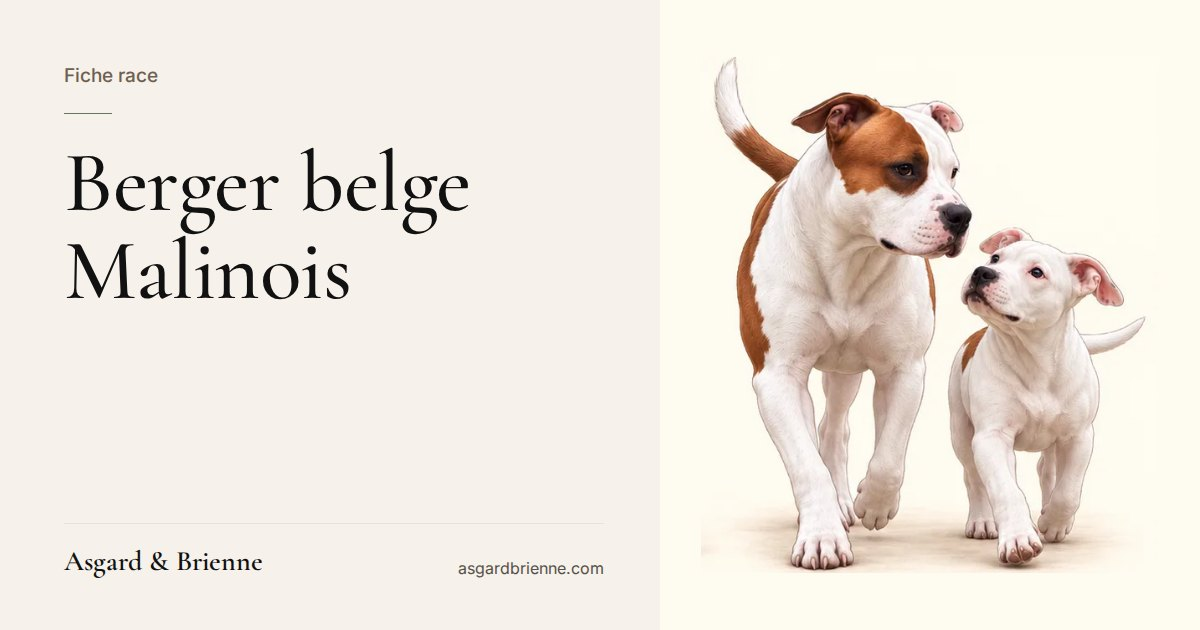
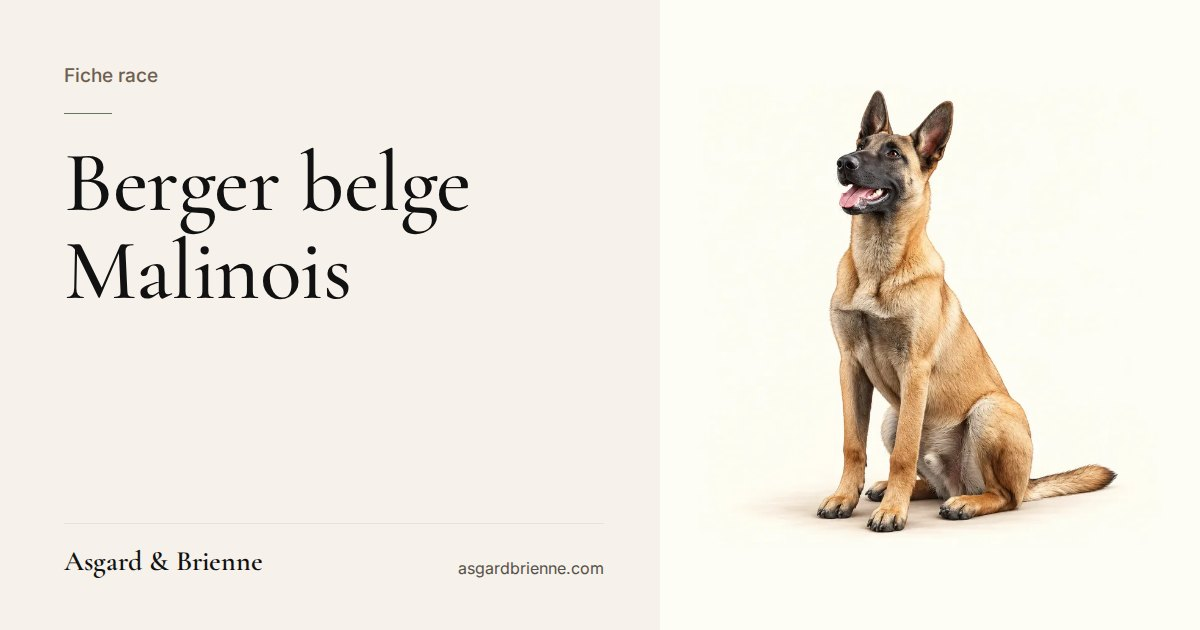
Races : illustrations Malinois, Staffie et Berger australien (#71)
Claude-Session: https://claude.ai/code/session_01Wc2QyaMHJEVbT5eyN7YCPF

Changed region(s): [[0.5858, 0.0905, 0.9558, 0.9349]]

diff --git a/races/index.html b/races/index.html
@@ -683,7 +683,7 @@ ol.cal li a{font-weight:700;font-size:.92rem}
 </section>
 <section class="rc-sec"><div class="container">
   <div class="fd-head"><p class="fd-k">Les fiches</p><h2>Race par race</h2><p>On commence par les races les plus vues sur Instagram et TikTok et les plus inscrites en France. D’autres arrivent, choisies d’après vos questions.</p></div>
-  <div class="rc-cards"><a class="rc-card" href="golden-retriever.html"><span class="rc-card-pic rc-ill"><img src="../assets/img/races/golden-retriever.webp" alt="" loading="lazy"></span><span class="rc-card-tx"><span class="rc-card-k">FCI 8, rapporteurs de gibier</span><h3>Golden retriever</h3><p>Star des réseaux, mais pas un « chien parfait » : besoins et vraie fragilité.</p><span class="more">Lire la fiche →</span></span></a><a class="rc-card" href="bouledogue-francais.html"><span class="rc-card-pic rc-ill"><img src="../assets/img/races/bouledogue-francais.webp" alt="" loading="lazy"></span><span class="rc-card-tx"><span class="rc-card-k">FCI 9, chiens de compagnie</span><h3>Bouledogue français</h3><p>Star d’Instagram, mais un nez court qui l’empêche souvent de bien respirer.</p><span class="more">Lire la fiche →</span></span></a><a class="rc-card" href="chihuahua.html"><span class="rc-card-pic rc-ill"><img src="../assets/img/races/chihuahua.webp" alt="" loading="lazy"></span><span class="rc-card-tx"><span class="rc-card-k">FCI 9, chiens de compagnie</span><h3>Chihuahua</h3><p>Tout petit, mais un vrai chien : pourquoi il aboie, et comment l’aider.</p><span class="more">Lire la fiche →</span></span></a><a class="rc-card" href="rottweiler.html"><span class="rc-card-pic rc-ill"><img src="../assets/img/races/rottweiler.webp" alt="" loading="lazy"></span><span class="rc-card-tx"><span class="rc-card-k">FCI 2, molossoïdes</span><h3>Rottweiler</h3><p>Chien de garde, catégorie 2, et l’un des plus vus sur TikTok.</p><span class="more">Lire la fiche →</span></span></a><a class="rc-card" href="husky.html"><span class="rc-card-pic rc-ill"><img src="../assets/img/races/husky.webp" alt="" loading="lazy"></span><span class="rc-card-tx"><span class="rc-card-k">FCI 5, chiens de type spitz</span><h3>Husky sibérien</h3><p>Les yeux bleus des réseaux, et un vrai chien de traîneau qui veut courir.</p><span class="more">Lire la fiche →</span></span></a><a class="rc-card" href="berger-australien.html"><span class="rc-card-pic rc-card-mono">BA</span><span class="rc-card-tx"><span class="rc-card-k">FCI 1, chiens de berger</span><h3>Berger australien</h3><p>Le chouchou des Français, et un chien de troupeau qui a besoin de travailler.</p><span class="more">Lire la fiche →</span></span></a><a class="rc-card" href="staffordshire-bull-terrier.html"><span class="rc-card-pic rc-card-mono">S</span><span class="rc-card-tx"><span class="rc-card-k">FCI 3, terriers (type bull)</span><h3>Staffordshire bull terrier</h3><p>3e race en France, souvent confondu avec l’Amstaff, mais pas catégorisé.</p><span class="more">Lire la fiche →</span></span></a><a class="rc-card" href="american-staffordshire-terrier.html"><span class="rc-card-pic"><img src="../assets/img/asgard-face.webp" alt="" loading="lazy"></span><span class="rc-card-tx"><span class="rc-card-k">FCI 3, terriers (type bull)</span><h3>American Staffordshire Terrier</h3><p>Ni « chien tueur » ni « nounou » : ce que la race dit vraiment, et la catégorie 2.</p><span class="more">Lire la fiche →</span></span></a><a class="rc-card" href="labrador.html"><span class="rc-card-pic rc-ill"><img src="../assets/img/races/labrador.webp" alt="" loading="lazy"></span><span class="rc-card-tx"><span class="rc-card-k">FCI 8, rapporteurs de gibier</span><h3>Labrador retriever</h3><p>Gourmand pour de vrai : une mutation génétique en partie responsable.</p><span class="more">Lire la fiche →</span></span></a><a class="rc-card" href="malinois.html"><span class="rc-card-pic rc-card-mono">M</span><span class="rc-card-tx"><span class="rc-card-k">FCI 1, chiens de berger</span><h3>Berger belge Malinois</h3><p>Un chien de travail avant tout : ses vrais besoins, et pour qui il est fait.</p><span class="more">Lire la fiche →</span></span></a><a class="rc-card" href="border-collie.html"><span class="rc-card-pic rc-ill"><img src="../assets/img/races/border-collie.webp" alt="" loading="lazy"></span><span class="rc-card-tx"><span class="rc-card-k">FCI 1, chiens de berger</span><h3>Border collie</h3><p>« Intelligent » ne veut pas dire « facile » : ce dont il a vraiment besoin.</p><span class="more">Lire la fiche →</span></span></a></div>
+  <div class="rc-cards"><a class="rc-card" href="golden-retriever.html"><span class="rc-card-pic rc-ill"><img src="../assets/img/races/golden-retriever.webp" alt="" loading="lazy"></span><span class="rc-card-tx"><span class="rc-card-k">FCI 8, rapporteurs de gibier</span><h3>Golden retriever</h3><p>Star des réseaux, mais pas un « chien parfait » : besoins et vraie fragilité.</p><span class="more">Lire la fiche →</span></span></a><a class="rc-card" href="bouledogue-francais.html"><span class="rc-card-pic rc-ill"><img src="../assets/img/races/bouledogue-francais.webp" alt="" loading="lazy"></span><span class="rc-card-tx"><span class="rc-card-k">FCI 9, chiens de compagnie</span><h3>Bouledogue français</h3><p>Star d’Instagram, mais un nez court qui l’empêche souvent de bien respirer.</p><span class="more">Lire la fiche →</span></span></a><a class="rc-card" href="chihuahua.html"><span class="rc-card-pic rc-ill"><img src="../assets/img/races/chihuahua.webp" alt="" loading="lazy"></span><span class="rc-card-tx"><span class="rc-card-k">FCI 9, chiens de compagnie</span><h3>Chihuahua</h3><p>Tout petit, mais un vrai chien : pourquoi il aboie, et comment l’aider.</p><span class="more">Lire la fiche →</span></span></a><a class="rc-card" href="rottweiler.html"><span class="rc-card-pic rc-ill"><img src="../assets/img/races/rottweiler.webp" alt="" loading="lazy"></span><span class="rc-card-tx"><span class="rc-card-k">FCI 2, molossoïdes</span><h3>Rottweiler</h3><p>Chien de garde, catégorie 2, et l’un des plus vus sur TikTok.</p><span class="more">Lire la fiche →</span></span></a><a class="rc-card" href="husky.html"><span class="rc-card-pic rc-ill"><img src="../assets/img/races/husky.webp" alt="" loading="lazy"></span><span class="rc-card-tx"><span class="rc-card-k">FCI 5, chiens de type spitz</span><h3>Husky sibérien</h3><p>Les yeux bleus des réseaux, et un vrai chien de traîneau qui veut courir.</p><span class="more">Lire la fiche →</span></span></a><a class="rc-card" href="berger-australien.html"><span class="rc-card-pic rc-ill"><img src="../assets/img/races/berger-australien.webp" alt="" loading="lazy"></span><span class="rc-card-tx"><span class="rc-card-k">FCI 1, chiens de berger</span><h3>Berger australien</h3><p>Le chouchou des Français, et un chien de troupeau qui a besoin de travailler.</p><span class="more">Lire la fiche →</span></span></a><a class="rc-card" href="staffordshire-bull-terrier.html"><span class="rc-card-pic rc-ill"><img src="../assets/img/races/staffordshire-bull-terrier.webp" alt="" loading="lazy"></span><span class="rc-card-tx"><span class="rc-card-k">FCI 3, terriers (type bull)</span><h3>Staffordshire bull terrier</h3><p>3e race en France, souvent confondu avec l’Amstaff, mais pas catégorisé.</p><span class="more">Lire la fiche →</span></span></a><a class="rc-card" href="american-staffordshire-terrier.html"><span class="rc-card-pic"><img src="../assets/img/asgard-face.webp" alt="" loading="lazy"></span><span class="rc-card-tx"><span class="rc-card-k">FCI 3, terriers (type bull)</span><h3>American Staffordshire Terrier</h3><p>Ni « chien tueur » ni « nounou » : ce que la race dit vraiment, et la catégorie 2.</p><span class="more">Lire la fiche →</span></span></a><a class="rc-card" href="labrador.html"><span class="rc-card-pic rc-ill"><img src="../assets/img/races/labrador.webp" alt="" loading="lazy"></span><span class="rc-card-tx"><span class="rc-card-k">FCI 8, rapporteurs de gibier</span><h3>Labrador retriever</h3><p>Gourmand pour de vrai : une mutation génétique en partie responsable.</p><span class="more">Lire la fiche →</span></span></a><a class="rc-card" href="malinois.html"><span class="rc-card-pic rc-ill"><img src="../assets/img/races/malinois.webp" alt="" loading="lazy"></span><span class="rc-card-tx"><span class="rc-card-k">FCI 1, chiens de berger</span><h3>Berger belge Malinois</h3><p>Un chien de travail avant tout : ses vrais besoins, et pour qui il est fait.</p><span class="more">Lire la fiche →</span></span></a><a class="rc-card" href="border-collie.html"><span class="rc-card-pic rc-ill"><img src="../assets/img/races/border-collie.webp" alt="" loading="lazy"></span><span class="rc-card-tx"><span class="rc-card-k">FCI 1, chiens de berger</span><h3>Border collie</h3><p>« Intelligent » ne veut pas dire « facile » : ce dont il a vraiment besoin.</p><span class="more">Lire la fiche →</span></span></a></div>
 </div></section>
 <section class="rc-sec rc-sec-sable"><div class="container">
   <div class="fd-head"><p class="fd-k">Les 10 groupes officiels</p><h2>Chaque race appartient à une famille</h2><p>La Fédération cynologique internationale range les races en dix groupes, surtout d’après leur fonction d’origine. C’est un bon point de départ pour comprendre les besoins probables d’un chien, même croisé.</p></div>

diff --git a/races/berger-australien.html b/races/berger-australien.html
@@ -678,7 +678,7 @@ ol.cal li a{font-weight:700;font-size:.92rem}
       <h1>Berger australien</h1>
       <p class="dc-lead">C’était la race préférée des Français depuis des années, et elle reste dans le trio de tête. Avec ses yeux clairs et sa robe merle, il est très photogénique. C’est un chien de troupeau, sensible et actif, qui s’ennuie vite sans occupation.</p>
     </div>
-    <div class="rc-side"><div class="rc-mono" aria-hidden="true">BA</div><dl class="rc-facts"><div class="rc-fact"><dt>Groupe</dt><dd>FCI 1, chiens de berger</dd></div><div class="rc-fact"><dt>Origine</dt><dd>États-Unis</dd></div><div class="rc-fact"><dt>Taille au garrot</dt><dd>mâle 51 à 58 cm, femelle 46 à 53 cm</dd></div><div class="rc-fact"><dt>En France</dt><dd>2e race inscrite au LOF en 2025</dd></div></dl></div>
+    <div class="rc-side"><figure class="rc-pic rc-ill"><img src="../assets/img/races/berger-australien.webp" alt="Illustration : berger australien rouge tricolore de profil" width="760" height="760"></figure><dl class="rc-facts"><div class="rc-fact"><dt>Groupe</dt><dd>FCI 1, chiens de berger</dd></div><div class="rc-fact"><dt>Origine</dt><dd>États-Unis</dd></div><div class="rc-fact"><dt>Taille au garrot</dt><dd>mâle 51 à 58 cm, femelle 46 à 53 cm</dd></div><div class="rc-fact"><dt>En France</dt><dd>2e race inscrite au LOF en 2025</dd></div></dl></div>
   </div>
 </section>
 <div class="narrow dc-body rc-body">

diff --git a/races/malinois.html b/races/malinois.html
@@ -678,7 +678,7 @@ ol.cal li a{font-weight:700;font-size:.92rem}
       <h1>Berger belge Malinois</h1>
       <p class="dc-lead">Il est devenu à la mode grâce aux chiens de police et aux vidéos impressionnantes. C’est surtout un chien sélectionné pour travailler, et beaucoup d’adoptions tournent mal faute de le savoir.</p>
     </div>
-    <div class="rc-side"><div class="rc-mono" aria-hidden="true">M</div><dl class="rc-facts"><div class="rc-fact"><dt>Groupe</dt><dd>FCI 1, chiens de berger</dd></div><div class="rc-fact"><dt>Origine</dt><dd>Belgique</dd></div><div class="rc-fact"><dt>Taille au garrot</dt><dd>mâle environ 62 cm, femelle environ 58 cm</dd></div><div class="rc-fact"><dt>Poids indicatif</dt><dd>mâle 25 à 30 kg, femelle 20 à 25 kg</dd></div></dl></div>
+    <div class="rc-side"><figure class="rc-pic rc-ill"><img src="../assets/img/races/malinois.webp" alt="Illustration : berger belge malinois fauve à masque noir, assis, la tête levée" width="760" height="760"></figure><dl class="rc-facts"><div class="rc-fact"><dt>Groupe</dt><dd>FCI 1, chiens de berger</dd></div><div class="rc-fact"><dt>Origine</dt><dd>Belgique</dd></div><div class="rc-fact"><dt>Taille au garrot</dt><dd>mâle environ 62 cm, femelle environ 58 cm</dd></div><div class="rc-fact"><dt>Poids indicatif</dt><dd>mâle 25 à 30 kg, femelle 20 à 25 kg</dd></div></dl></div>
   </div>
 </section>
 <div class="narrow dc-body rc-body">

diff --git a/races/staffordshire-bull-terrier.html b/races/staffordshire-bull-terrier.html
@@ -678,7 +678,7 @@ ol.cal li a{font-weight:700;font-size:.92rem}
       <h1>Staffordshire bull terrier</h1>
       <p class="dc-lead">C’est la 3e race la plus inscrite au LOF en France. On le confond souvent avec l’Amstaff, son cousin plus grand. Contrairement à lui, le Staffie n’est pas un chien catégorisé.</p>
     </div>
-    <div class="rc-side"><div class="rc-mono" aria-hidden="true">S</div><dl class="rc-facts"><div class="rc-fact"><dt>Groupe</dt><dd>FCI 3, terriers (type bull)</dd></div><div class="rc-fact"><dt>Origine</dt><dd>Angleterre</dd></div><div class="rc-fact"><dt>Taille au garrot</dt><dd>35,5 à 40,5 cm</dd></div><div class="rc-fact"><dt>En France</dt><dd>non catégorisé</dd></div></dl></div>
+    <div class="rc-side"><figure class="rc-pic rc-ill"><img src="../assets/img/races/staffordshire-bull-terrier.webp" alt="Illustration : staffordshire bull terrier noir à plastron blanc, debout" width="760" height="760"></figure><dl class="rc-facts"><div class="rc-fact"><dt>Groupe</dt><dd>FCI 3, terriers (type bull)</dd></div><div class="rc-fact"><dt>Origine</dt><dd>Angleterre</dd></div><div class="rc-fact"><dt>Taille au garrot</dt><dd>35,5 à 40,5 cm</dd></div><div class="rc-fact"><dt>En France</dt><dd>non catégorisé</dd></div></dl></div>
   </div>
 </section>
 <div class="narrow dc-body rc-body">
